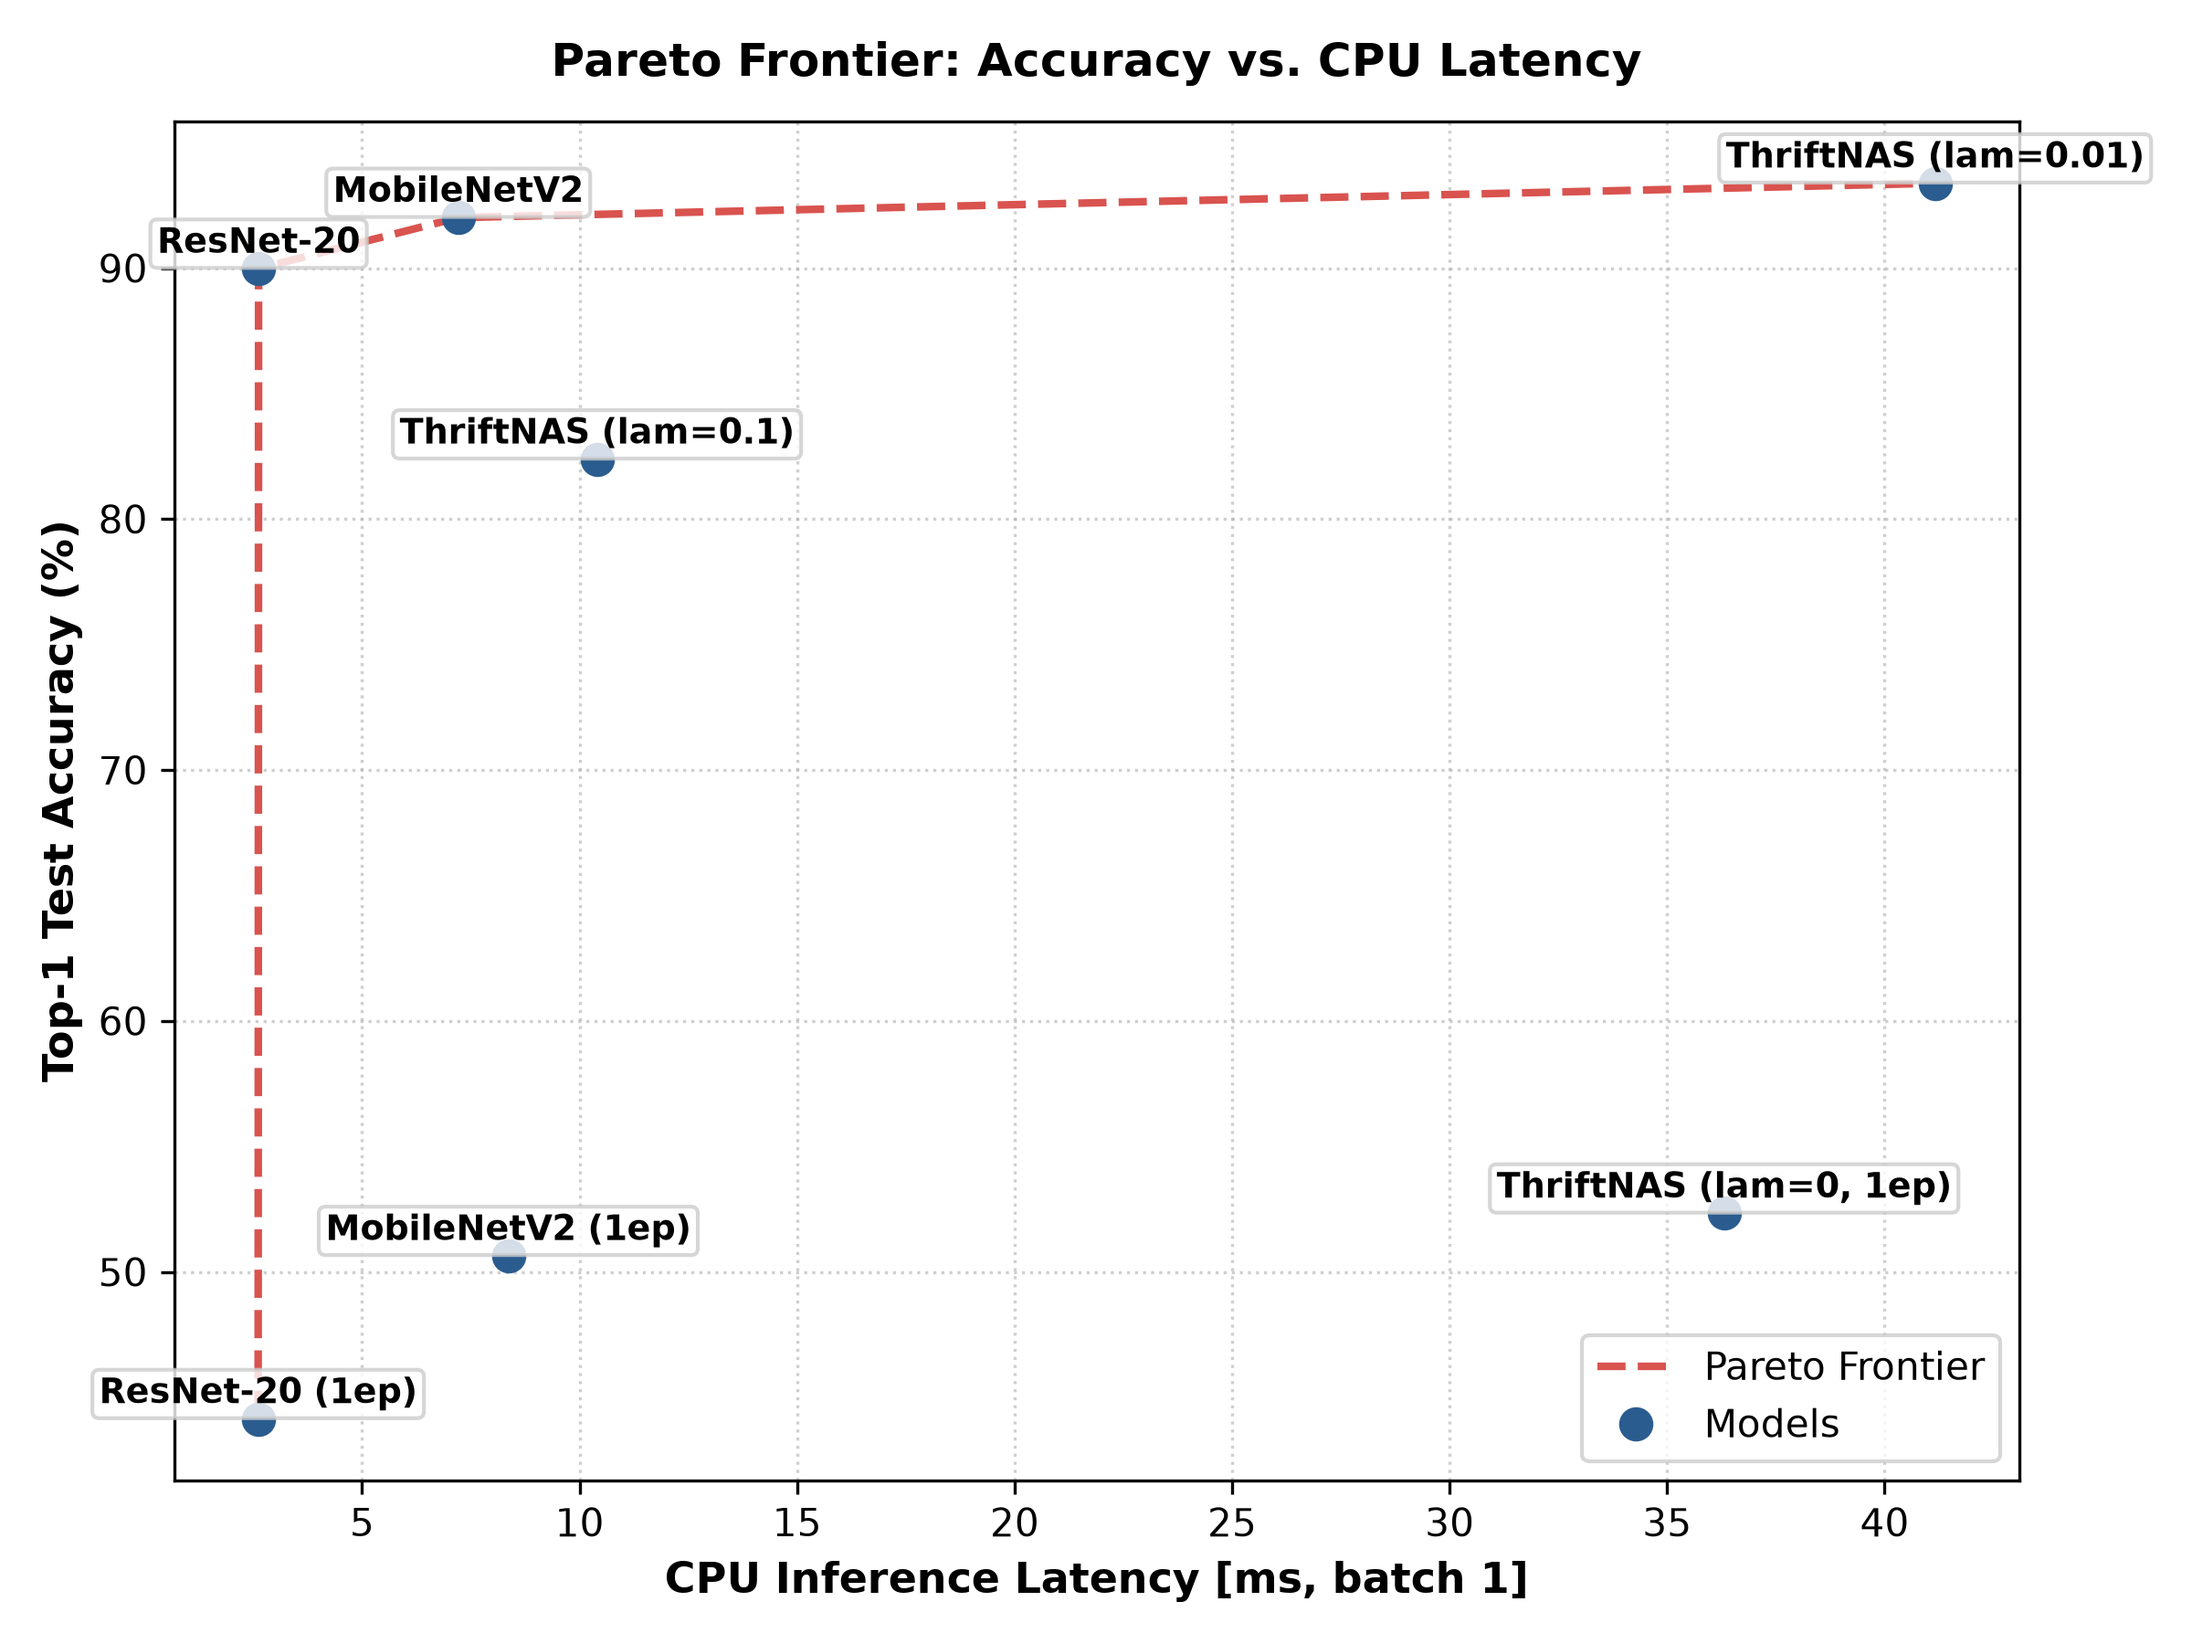
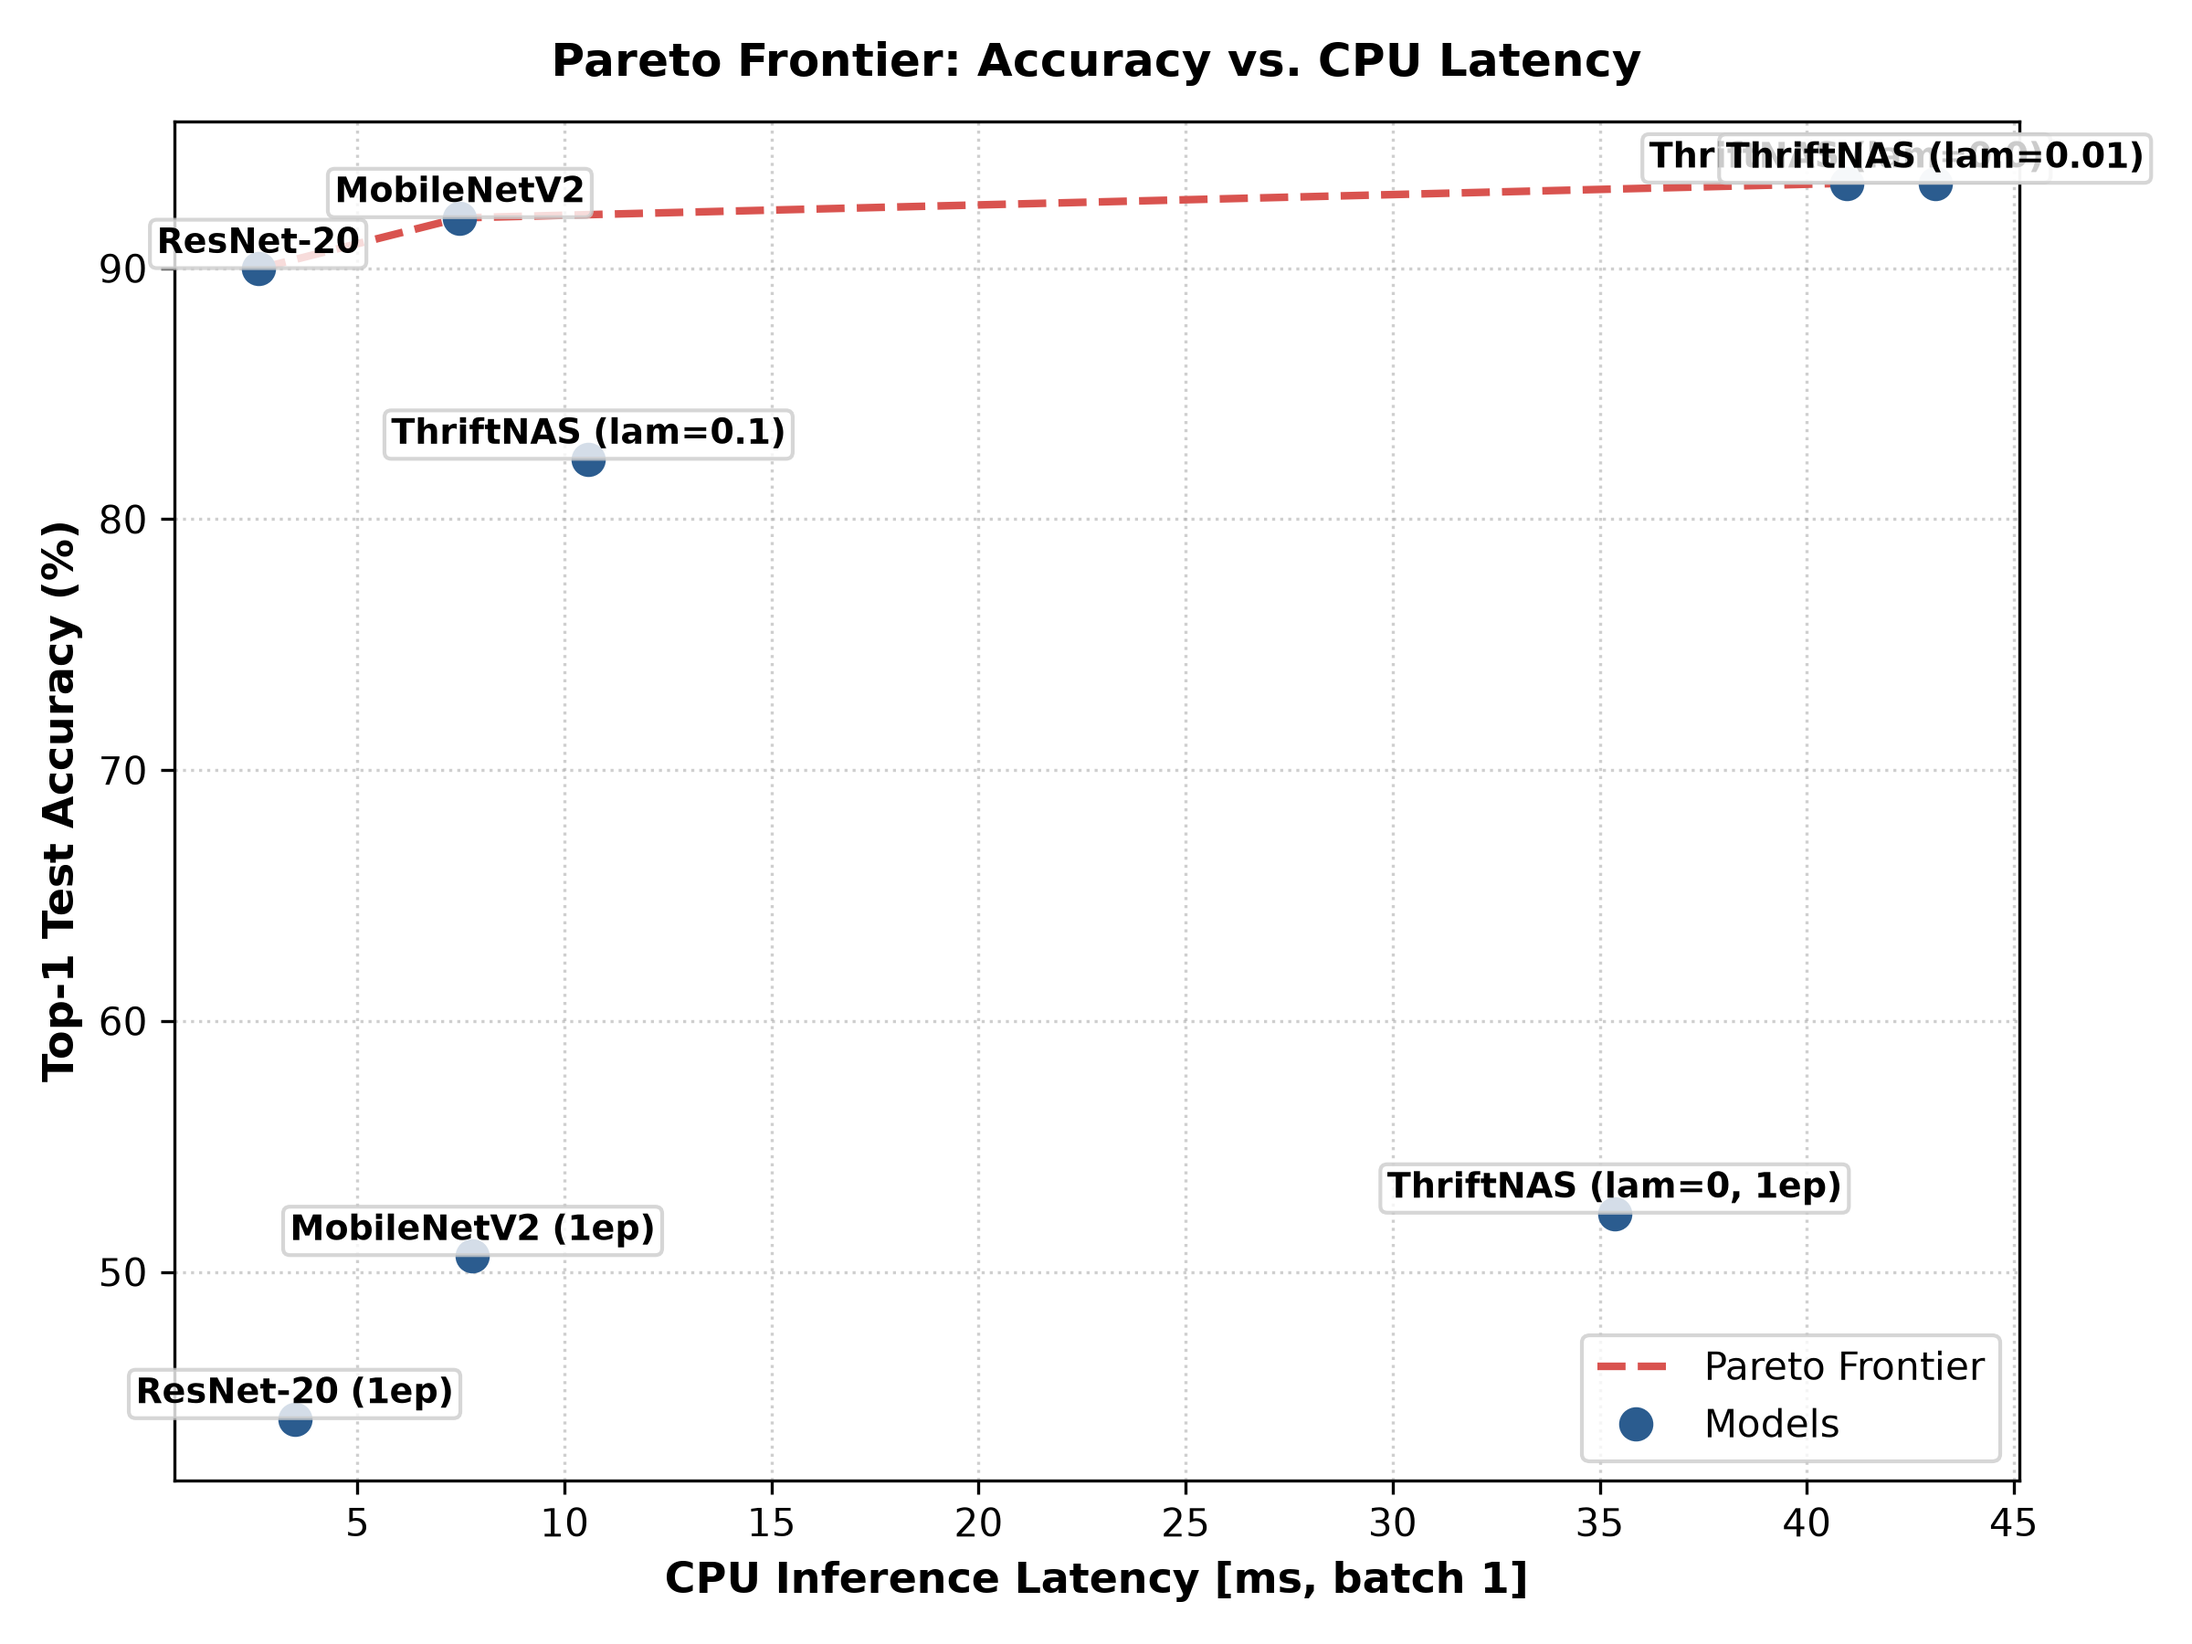
feat: complete Vanilla DARTS (lam=0.0) 50-epoch retrain (93.39%), update Pareto plots and final benchmark summary

diff --git a/results/results.md b/results/results.md
@@ -4,10 +4,11 @@
 
 | Model | Top-1 (%) | Params (M) | MACs (M) | Size (MB) | CPU latency (ms, mean +/- std) | Predicted latency (ms) | Prediction error (%) | Search GPU-hours |
 | --- | --- | --- | --- | --- | --- | --- | --- | --- |
-| MobileNetV2 | 92.01 (1 seed) | 2.2367 | 91.28 | 8.77 | 7.21 +/- 0.09 (1 seed) | - | - | - |
-| ResNet-20 | 89.98 (1 seed) | 0.2725 | 41.22 | - | 2.62 +/- 0.03 (1 seed) | - | - | - |
-| MobileNetV2 (1ep) | 50.64 (1 seed) | 2.2367 | 91.28 | 8.77 | 8.36 +/- 1.86 (1 seed) | - | - | - |
-| ResNet-20 (1ep) | 44.14 (1 seed) | 0.2725 | 41.22 | 1.09 | 2.61 +/- 0.03 (1 seed) | - | - | - |
-| ThriftNAS (lam=0.01) | 93.38 (1 seed) | 1.2750 | 223.58 | 5.15 | 41.16 +/- 3.90 (1 seed) | 11.75 | 71.5 | - |
-| ThriftNAS (lam=0.1) | 82.38 (1 seed) | 0.4952 | 101.09 | 1.94 | 10.40 +/- 1.37 (1 seed) | 0.49 | 95.2 | - |
-| ThriftNAS (lam=0, 1ep) | 52.33 (1 seed) | 1.7153 | 280.41 | 6.92 | 36.31 +/- 5.44 (1 seed) | 12.47 | 65.7 | - |
+| MobileNetV2 | 92.01 (1 seed) | 2.2367 | 91.28 | 8.77 | 7.47 +/- 0.23 (1 seed) | - | - | - |
+| ResNet-20 | 89.98 (1 seed) | 0.2725 | 41.22 | - | 2.60 +/- 0.03 (1 seed) | - | - | - |
+| MobileNetV2 (1ep) | 50.64 (1 seed) | 2.2367 | 91.28 | 8.77 | 7.78 +/- 0.33 (1 seed) | - | - | - |
+| ResNet-20 (1ep) | 44.14 (1 seed) | 0.2725 | 41.22 | 1.09 | 3.48 +/- 1.09 (1 seed) | - | - | - |
+| ThriftNAS (lam=0.0) | 93.39 (1 seed) | 1.3950 | 242.60 | 5.65 | 40.96 +/- 3.92 (1 seed) | 12.46 | 69.6 | - |
+| ThriftNAS (lam=0.01) | 93.38 (1 seed) | 1.2750 | 223.58 | 5.15 | 43.10 +/- 5.10 (1 seed) | 11.75 | 72.7 | - |
+| ThriftNAS (lam=0.1) | 82.38 (1 seed) | 0.4952 | 101.09 | 1.94 | 10.58 +/- 1.81 (1 seed) | 0.49 | 95.3 | - |
+| ThriftNAS (lam=0, 1ep) | 52.33 (1 seed) | 1.7153 | 280.41 | 6.92 | 35.36 +/- 3.85 (1 seed) | 12.47 | 64.7 | - |
